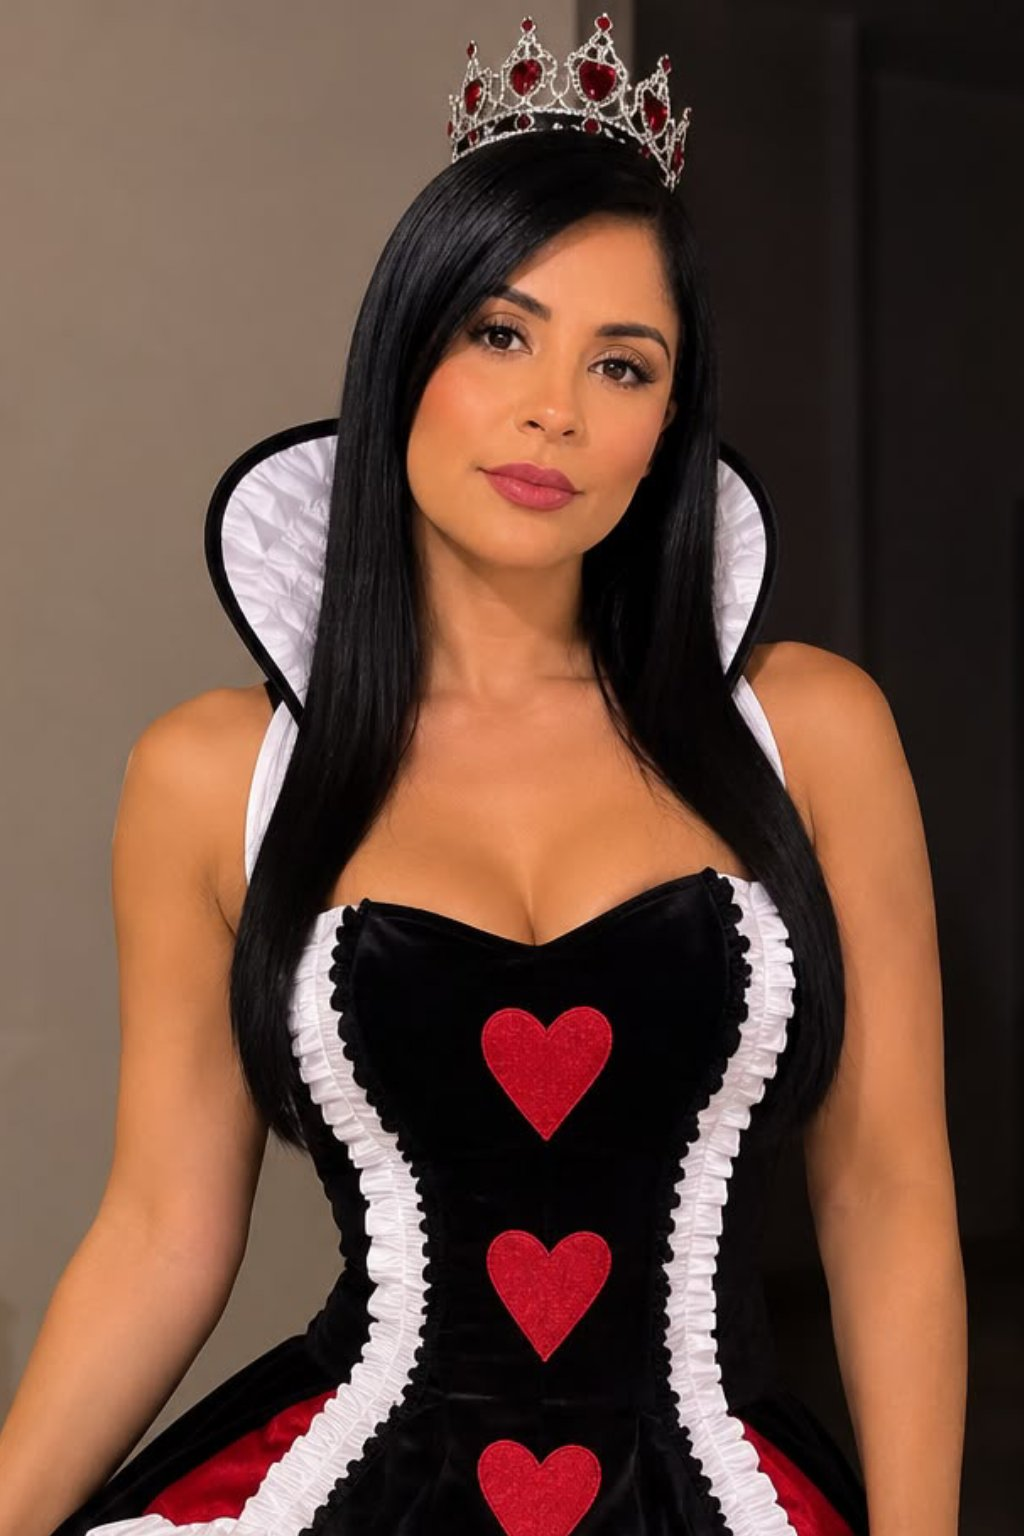
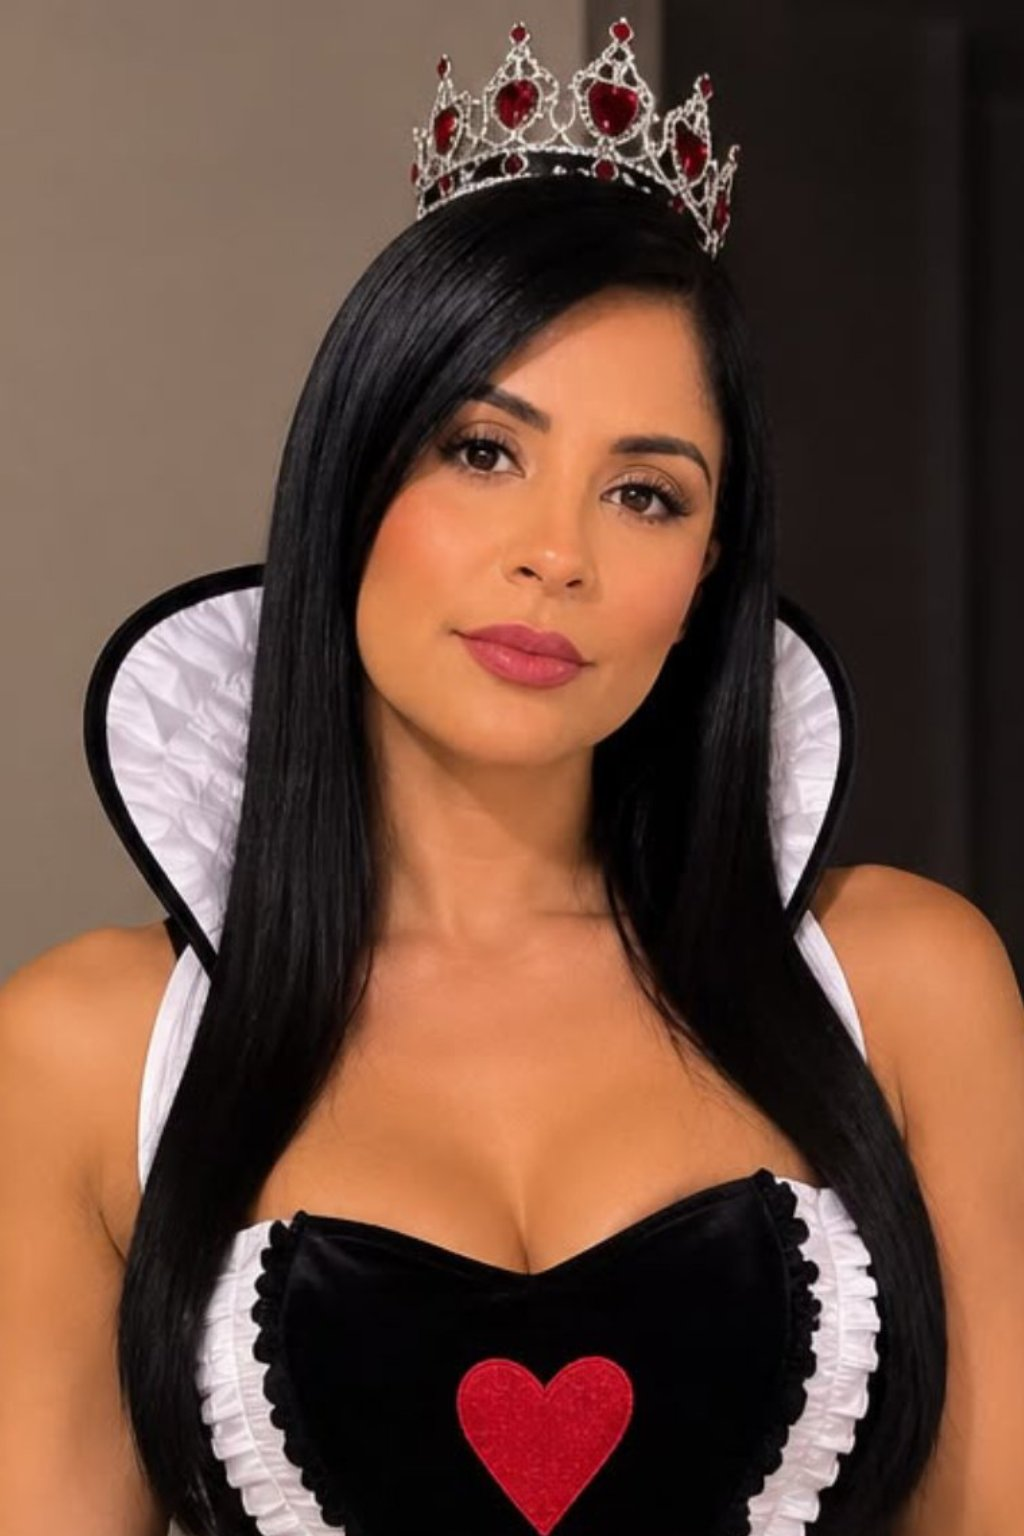
style: ajusta altura de elementos e adiciona botões de navegação

diff --git a/src/index.css b/src/index.css
@@ -127,6 +127,7 @@ body {
   .portrait-card {
     @apply relative overflow-hidden rounded-[20px];
     background: transparent;
+    height: 70vh;
   }
 
   .portrait-card::after {
@@ -143,6 +144,7 @@ body {
       radial-gradient(circle at 18% 78%, rgba(189, 24, 47, 0.45), transparent 20%),
       radial-gradient(circle at 80% 14%, rgba(189, 24, 47, 0.32), transparent 15%),
       radial-gradient(circle at 78% 82%, rgba(255, 212, 119, 0.16), transparent 18%);
+    height: 70vh;
   }
 
   .mock-portrait {
@@ -151,6 +153,7 @@ body {
       radial-gradient(circle at 50% 18%, rgba(255, 228, 147, 0.28), transparent 13%),
       linear-gradient(180deg, rgba(255, 255, 255, 0.06), transparent 24%),
       linear-gradient(180deg, rgba(112, 12, 24, 0.82), rgba(39, 4, 8, 0.94));
+    height: 70vh;
   }
 
   .mock-portrait-face {
@@ -225,7 +228,7 @@ body {
   }
 
   .gold-chip {
-    @apply inline-flex items-center rounded-full border px-3 py-1 text-[11px] font-semibold;
+    @apply inline-flex items-center rounded-full border px-3 py-1 text-[81px] font-semibold;
     border-color: rgba(244, 208, 111, 0.52);
     color: #f6dfa1;
     background: rgba(255, 212, 119, 0.08);
@@ -301,12 +304,14 @@ body {
     width: 88%;
     max-width: none;
     aspect-ratio: 587 / 582;
+    /* height: 70vh; */
   }
 
   .queen-reference-photo-inner {
     position: relative;
     width: 100%;
     height: 100%;
+    height: 70vh;
   }
 
   .queen-reference-photo img.frame {
@@ -316,7 +321,7 @@ body {
   .queen-reference-photo .photo-window {
     position: absolute;
     z-index: 1;
-    inset: 12.5% 19.2% 16.5% 19.5%;
+    inset:27.5% 23.2% 28.5% 28.5%;
     overflow: hidden;
     border-radius: 14px;
   }

diff --git a/src/pages/ConfirmPage.tsx b/src/pages/ConfirmPage.tsx
@@ -27,15 +27,15 @@ export function ConfirmPage() {
         <div className="portrait-card">
           <div className="queen-reference-photo">
             <div className="queen-reference-photo-inner">
-            <div className="photo-window">
-              <img src={photo.previewUrl} alt="Foto capturada" className="photo" />
-            </div>
-            <img
-              src={queenAssets.molduraCarta}
-              alt=""
-              aria-hidden="true"
-              className="frame"
-            />
+              <div className="photo-window">
+                <img src={photo.previewUrl} alt="Foto capturada" className="photo" />
+              </div>
+              <img
+                src={queenAssets.molduraCarta}
+                alt=""
+                aria-hidden="true"
+                className="frame"
+              />
             </div>
           </div>
         </div>
@@ -60,6 +60,9 @@ export function ConfirmPage() {
           ↺ Tirar novamente
         </button>
       </div>
+      <button type="button" onClick={() => navigate('/camera')} className="secondary-button">
+        Voltar
+      </button>
     </div>
   )
 }

diff --git a/src/pages/CameraPage.tsx b/src/pages/CameraPage.tsx
@@ -303,7 +303,7 @@ export function CameraPage() {
               : 'Enviar foto'}
         </button>
 
-        <button
+        {/* <button
           type="button"
           onClick={() => {
             fileInputRef.current?.click()
@@ -311,7 +311,7 @@ export function CameraPage() {
           className="secondary-button"
         >
           Upload manual
-        </button>
+        </button> */}
 
         {cameraError ? (
           <div className="rounded-[16px] border border-amber-400/30 bg-amber-400/10 px-4 py-3 text-sm text-amber-100">
@@ -321,6 +321,9 @@ export function CameraPage() {
       </div>
 
       <canvas ref={canvasRef} className="hidden" />
+      <button type="button" onClick={() => navigate('/estilos')} className="secondary-button">
+        Voltar
+      </button>
     </div>
   )
 }
